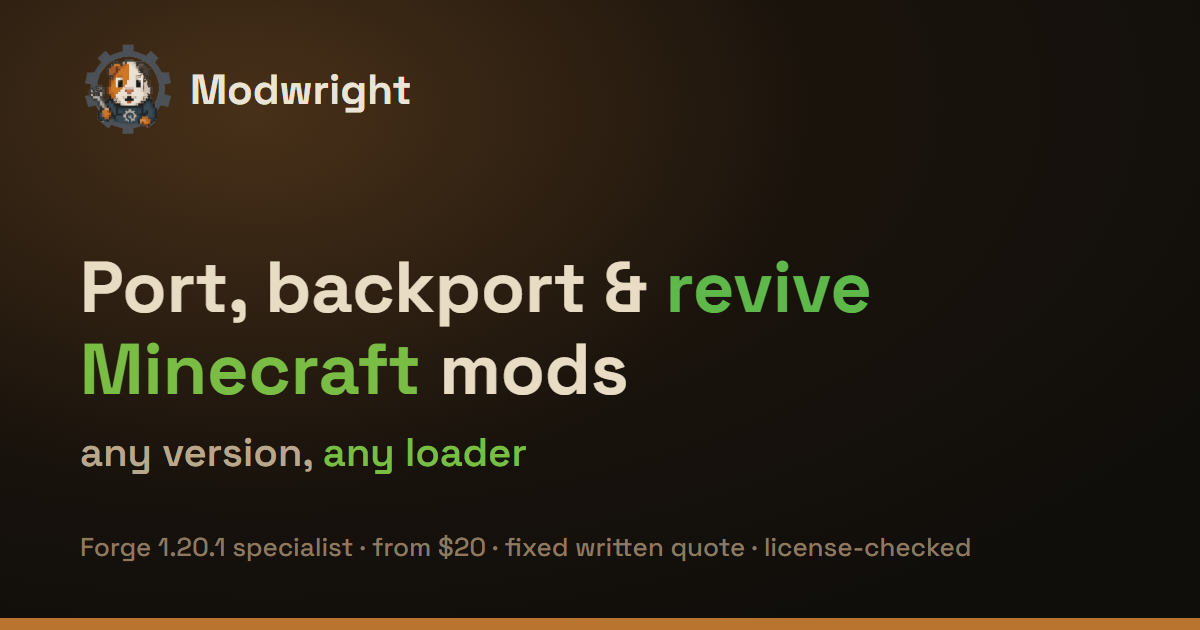
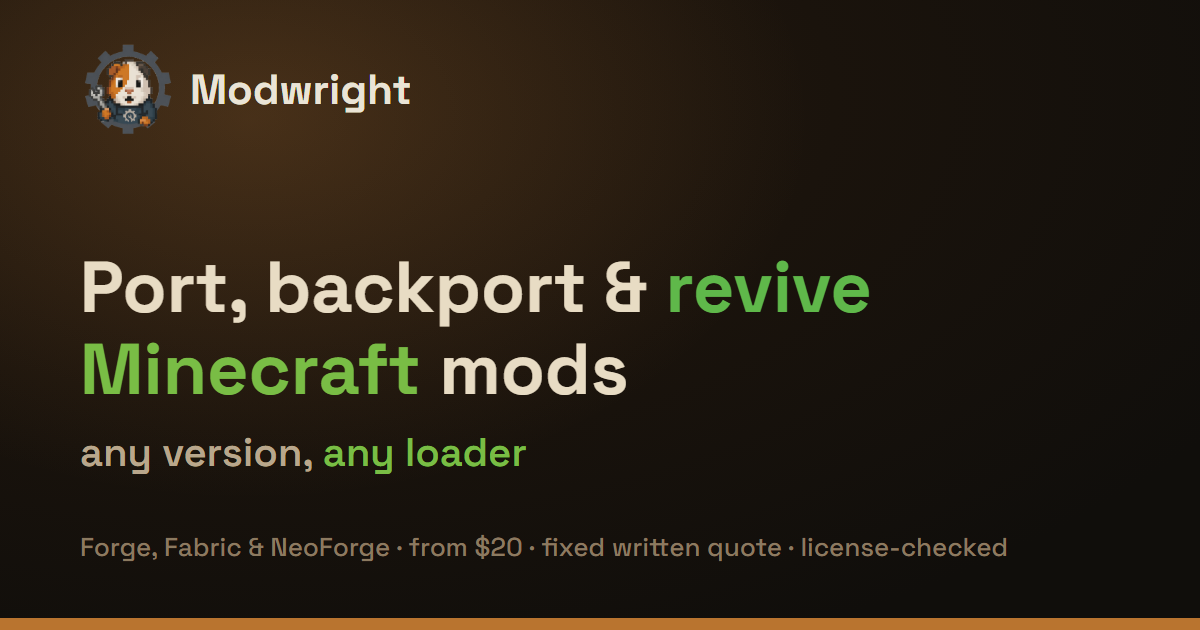
fix(web): los tres cargadores, y los pies dejan de explicar el chiste
josda: tiene experiencia con los TRES cargadores, no solo 1.20.1; y los pies de
las imagenes sobre-explican, que es lo que hace que un texto suene a generado.

POSICIONAMIENTO. Fuera 'Forge 1.20.1 specialist' de los 5 sitios donde estaba
(meta description, JSON-LD, og:image:alt, la tarjeta del enlace y el cuerpo).
Lo que NO se pierde es la logica de precio, que es real y la usa el motor:
1.20.1 sigue siendo la tarifa mas baja, pero ahora dice por que -- 'porque es el
menor trabajo, no porque sea lo unico que hago'.

PIES. De 5 pies largos a 5 cortos. El peor era el del diagrama de cargadores:
56 palabras, un parrafo disfrazado de pie que ademas repetia la tabla de precios
de mas abajo. Ahora dice lo unico que aporta: 'I work in all three. Fabric to
Forge is the hard one, and I do it.'

El de las mascotas pasa de 32 palabras a 8. Explicaba el chiste de las placas y
luego lo remataba con una frase de cierre equilibrada: las dos cosas son el tic
mas reconocible de un texto escrito por una maquina. 'Mascots, not staff. The
job titles are invented.' hace el mismo trabajo legal en 8 palabras.

Changed region(s): [[0.1233, 0.8444, 0.8325, 0.9048]]

diff --git a/index.html b/index.html
@@ -38,7 +38,7 @@
   </script>
   <meta name="viewport" content="width=device-width, initial-scale=1.0">
   <title>Minecraft Mod Porting &amp; Backporting Service | Modwright</title>
-  <meta name="description" content="I port, backport and revive Minecraft mods across Forge, Fabric &amp; NeoForge. Forge 1.20.1 specialist. Fixed price agreed in writing before you pay. From $20.">
+  <meta name="description" content="I port, backport and revive Minecraft mods across Forge, Fabric &amp; NeoForge, in both directions. Fixed price agreed in writing before you pay. From $20.">
   <meta name="theme-color" content="#1a1410">
   <link rel="canonical" href="https://dheightsan.github.io/forge-ports/">
   <meta property="og:site_name" content="Modwright">
@@ -50,7 +50,7 @@
   <meta property="og:image" content="https://dheightsan.github.io/forge-ports/og.png">
   <meta property="og:image:width" content="1200">
   <meta property="og:image:height" content="630">
-  <meta property="og:image:alt" content="Modwright: Minecraft mod porting and backporting, Forge 1.20.1 specialist">
+  <meta property="og:image:alt" content="Modwright: Minecraft mod porting and backporting across Forge, Fabric and NeoForge">
   <meta name="twitter:card" content="summary_large_image">
   <meta name="twitter:title" content="Modwright: Minecraft mod porting &amp; backporting">
   <meta name="twitter:description" content="Port, backport &amp; revive Minecraft mods · Any version, any loader · Fixed written quote · From $20.">
@@ -61,7 +61,7 @@
   "@type": "Service",
   "name": "Modwright Minecraft mod porting",
   "serviceType": "Minecraft mod porting, backporting, revival, loader conversion, maintenance and optimization",
-  "description": "Port, backport and revive Minecraft mods across Forge, Fabric and NeoForge. Forge 1.20.1 specialist. Fixed price from $20, boot-tested, license-checked, agreed in writing before work begins.",
+  "description": "Port, backport and revive Minecraft mods across Forge, Fabric and NeoForge, in both directions. Fixed price from $20, boot-tested, license-checked, agreed in writing before work begins.",
   "url": "https://dheightsan.github.io/forge-ports/",
   "areaServed": "Worldwide",
   "provider": {
@@ -1595,11 +1595,11 @@
     <p class="hero-services">Plus compatibility patches, maintenance and optimization.</p>
     <p class="hero-who">I'm <strong>josda</strong>. I build modpacks; I got fed up with mods dying off on old versions, so I started porting them myself.</p>
     <p class="hero-desc">
-      Forge 1.20.1 is what I do best, and where I'm quickest. I move mods up a version or down a version, and work across Forge, Fabric and NeoForge. I check the licence first and boot-test every build before it's released.
+      I work across Forge, Fabric and NeoForge, and I move mods up and down versions. Forge 1.20.1 is my lowest rate because it is the least work, not because it is all I do. I check the licence first and boot-test every build before it's released.
     </p>
     <div class="pills">
       <span class="pill pill-price">Fixed price, one flat quote</span>
-      <span class="pill pill-trust">Forge 1.20.1 specialist</span>
+      <span class="pill pill-trust">Forge, Fabric &amp; NeoForge</span>
       <span class="pill">5 structural checks before any jar ships</span>
       <span class="pill">Licence checked up front</span>
     </div>
@@ -1663,13 +1663,13 @@
       <g style="color:var(--ld-forge)"><circle class="loomd-node" cx="170.1" cy="325.0" r="54"/><circle class="loomd-node-fill" cx="170.1" cy="325.0" r="54"/><g class="loomd-glyph"><g transform="translate(149.7,304.6) scale(1.700)"><path fill="currentColor" d="M2 8h10l-1.2 2.4H15v2h-1.9L12 17H8L6.2 12.4H2z"/><rect x="6" y="18" width="9" height="2" rx="0.4" fill="currentColor"/></g></g><text class="loomd-t" x="170.1" y="413.0" font-size="28" text-anchor="middle">Forge</text></g>
       </svg>
       <p class="loomd-claim">Any version, any loader.</p>
-      <figcaption>A <span translate="no">NeoForge</span> mod is mostly a rename, so it converts both ways and it is the cheapest of the three. A <span translate="no">Fabric</span> mod is close to a rewrite, because the events, registries and mixins are all different. A <span translate="no">Forge</span> mod on another version is priced by the walls it has to cross, not by a percentage.</figcaption>
+      <figcaption>I work in all three. <span translate="no">Fabric</span> to <span translate="no">Forge</span> is the hard one, and I do it.</figcaption>
     </figure>
   </div>
 </section>
 <figure class="scene-band">
   <img src="band-flight.webp" width="1800" height="1012" alt="My character hanging in the air above an open sea, with the sun going down behind him." loading="lazy" decoding="async">
-  <figcaption><span>Same pack, same character. Hundreds of other people's mods in that world, and not one of them is mine.</span></figcaption>
+  <figcaption><span>Same pack, same character. None of those mods are mine.</span></figcaption>
 
 </figure>
 <!-- PORTFOLIO -->
@@ -1883,7 +1883,7 @@
 </div>
 <figure class="scene-band scene-band--art">
   <img src="band-lab.webp" width="1536" height="1024" alt="An illustrated workshop: a hedgehog dressed as Einstein and a guinea pig dressed as Nikola Tesla at a workbench. A blackboard behind them reads Modwright, bridging Minecraft mods across versions; a shelf holds books named after each mod loader, and a scroll lists the steps of a commission." loading="lazy" decoding="async">
-  <figcaption><span>Everything on that board is a real step of the job. The staff are imaginary.</span></figcaption>
+  <figcaption><span>That checklist is the actual order of work.</span></figcaption>
 </figure>
 <!-- SERVICES -->
 <section id="services">
@@ -1892,7 +1892,7 @@
   <img class="ch ch--borde" src="h9478c-23.webp" width="256" height="244" style="right:calc(50% + 530px + 18px);top:200px;--h:195px;opacity:1.00" alt="" aria-hidden="true" loading="lazy" decoding="async">
   <div class="wrap">
         <h2>Backports, ports and loader conversions</h2>
-    <p class="sub">Forge 1.20.1 is my lowest rate because it sits just below every recent version wall, so it's where I'm fastest. Anything harder is priced by the real work it adds, not some made-up percentage. The full reasoning is written up in <a href="mod-porting-cost.html">what a port costs, and why</a>.</p>
+    <p class="sub">All three loaders, both directions. Forge 1.20.1 carries the lowest rate because it sits just below every recent version wall, so it is the least work. Anything harder is priced by the real work it adds, not some made-up percentage. The full reasoning is written up in <a href="mod-porting-cost.html">what a port costs, and why</a>.</p>
 <div class="cards">
       <div class="card card--base">
         <div class="icon-wrap svc-copper"><svg viewBox="0 0 24 24" aria-hidden="true"><path d="M12 4v13"/><path d="M6 11l6 6 6-6"/></svg></div>
@@ -1978,7 +1978,7 @@
     </div>
     <figure class="mascotas">
       <img src="mascotas.webp" width="978" height="902" alt="Two pixel-art mascots on wooden nameplates: a guinea pig with a moustache holding crackling electricity, labelled Nikola Tesla, systems integration engineer; and a hedgehog in a lab coat holding a galaxy, labelled Einstein, theoretical architect." loading="lazy" decoding="async">
-      <figcaption><strong>Mascots, not staff.</strong> The nameplates are a joke about the two halves of one job, working out what the port needs and then making it run. The person you hire does both.</figcaption>
+      <figcaption><strong>Mascots, not staff.</strong> The job titles are invented.</figcaption>
     </figure>
   </div>
 </section>
@@ -2225,7 +2225,7 @@
 </section>
 <figure class="scene-band">
   <img src="band-cow.webp" width="1800" height="1012" alt="My character standing on open grassland beside a large pale horned cow, with slimes in the distance." loading="lazy" decoding="async">
-  <figcaption><span>This is where the porting started: my own pack, and a list of mods that never got updated.</span></figcaption>
+  <figcaption><span>Where the porting started: my own pack.</span></figcaption>
 </figure>
 <div class="torn-sep" aria-hidden="true"><svg viewBox="0 0 1440 24" preserveAspectRatio="none"><path d="M0 24 L0 11 L52 16 L108 8 L168 17 L232 7 L304 15 L380 9 L456 17 L536 7 L618 15 L702 9 L786 17 L870 8 L952 15 L1036 9 L1120 17 L1204 8 L1286 15 L1366 10 L1440 14 L1440 24 Z"/></svg>
 
